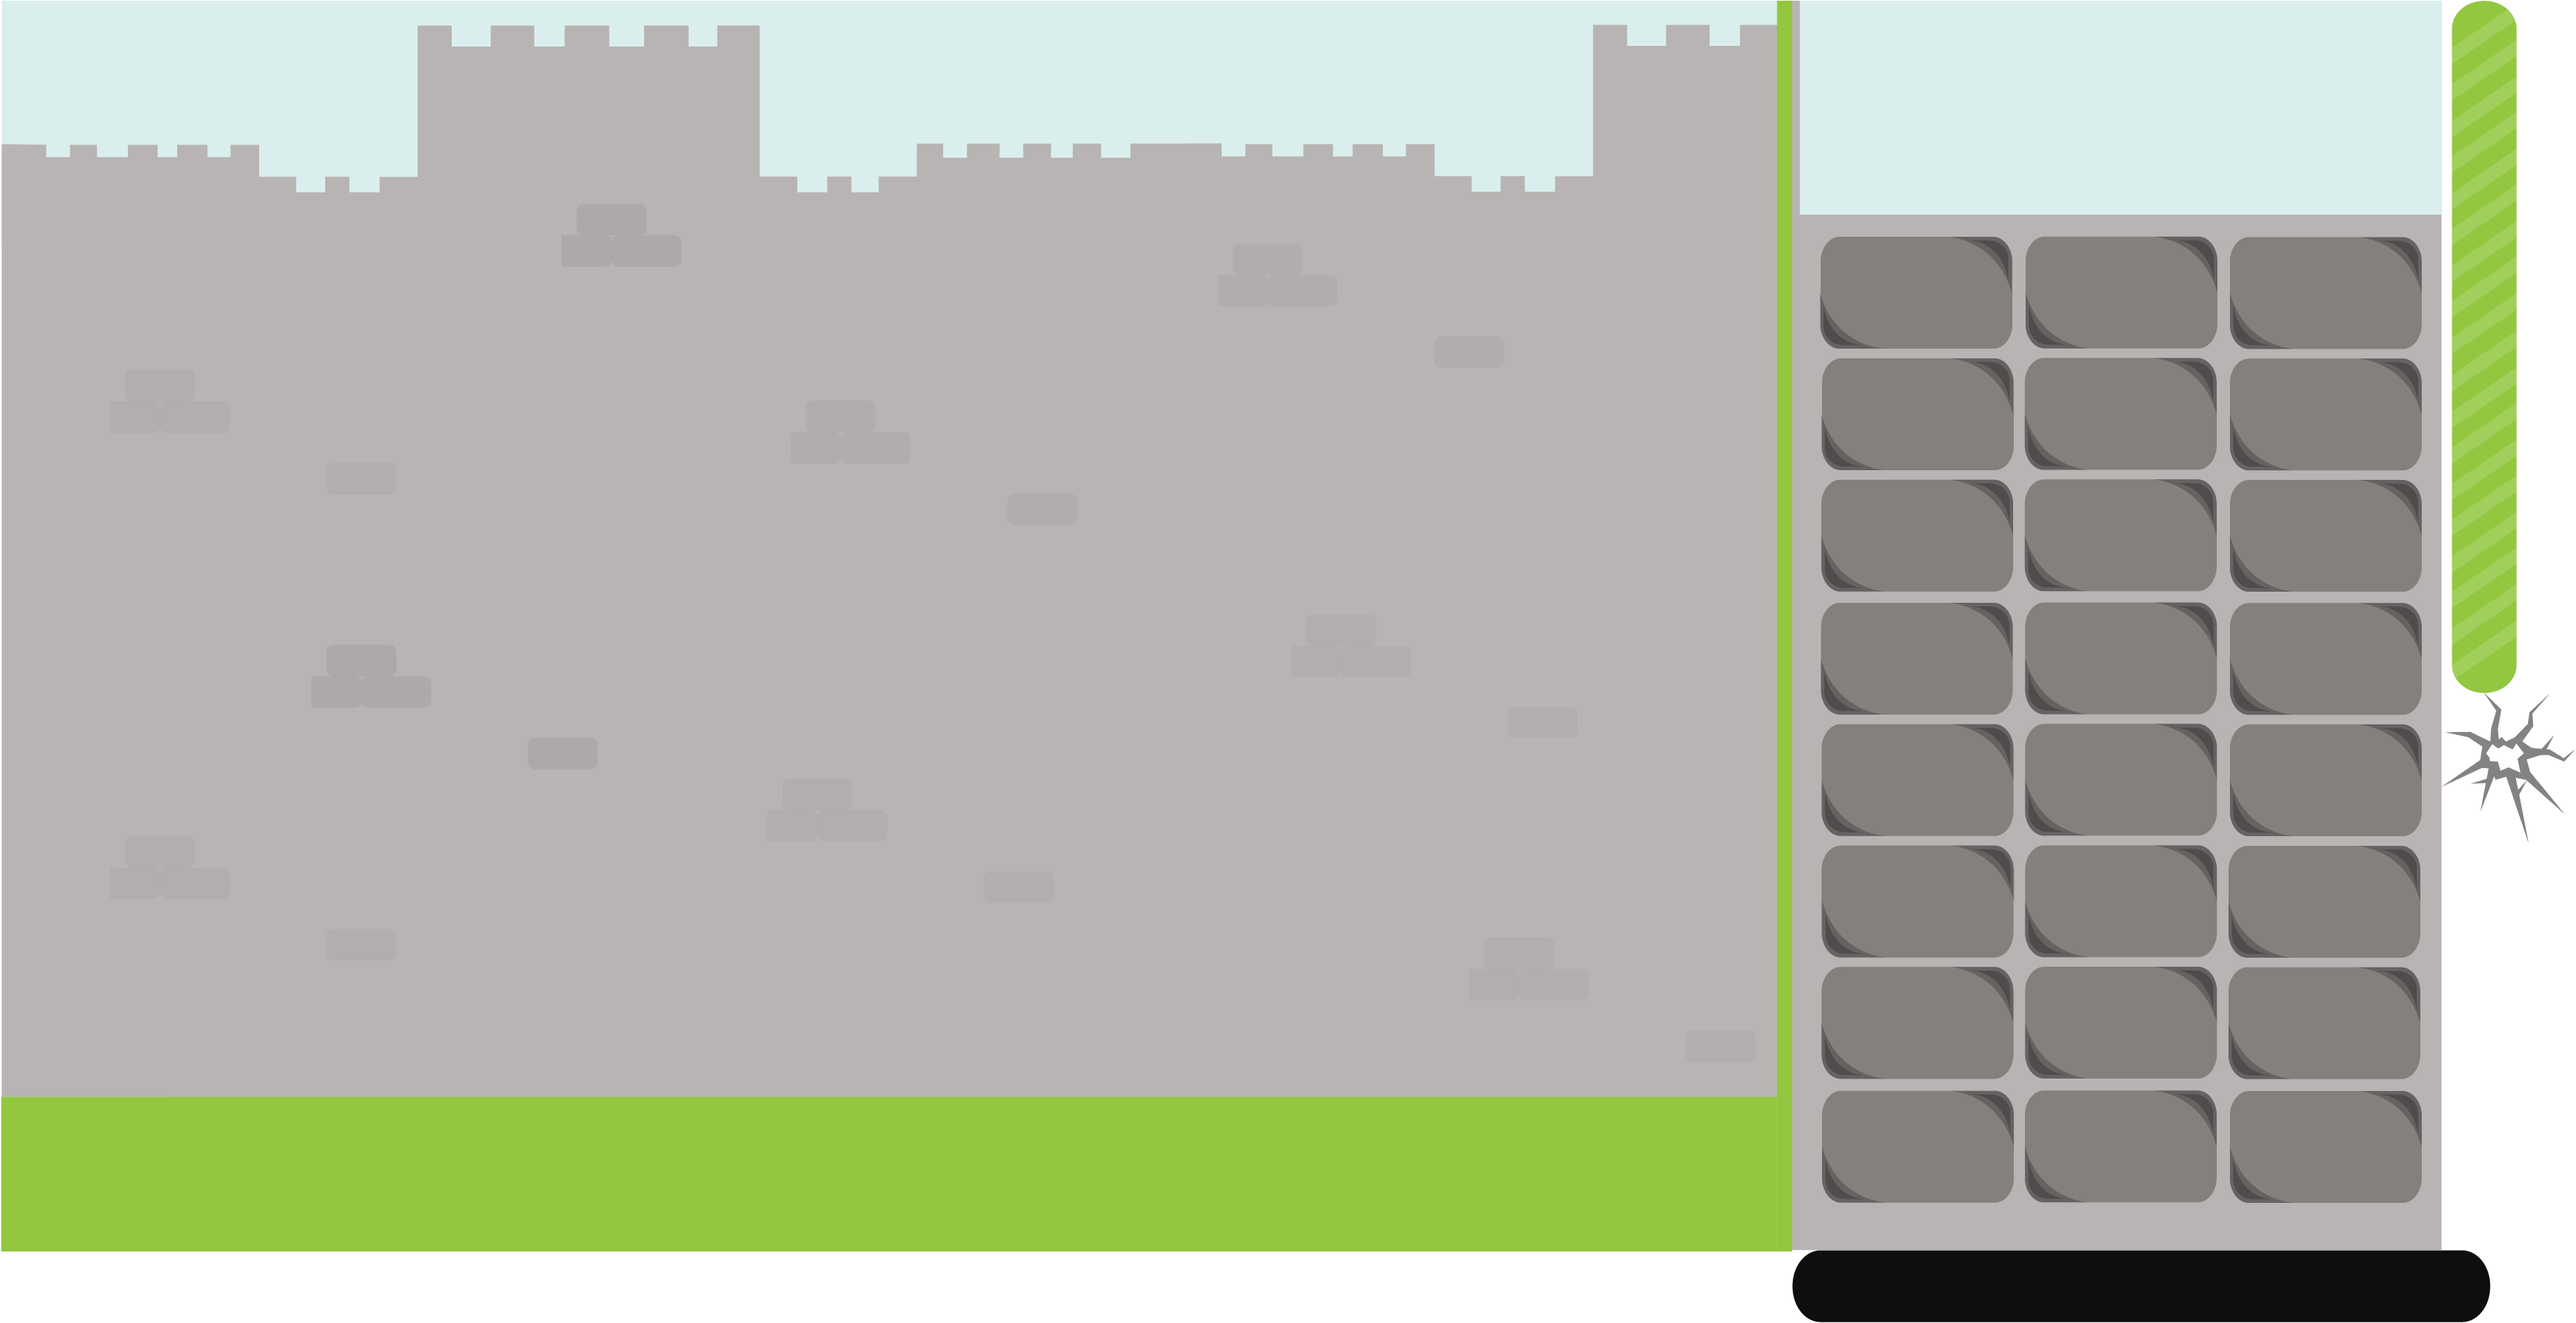
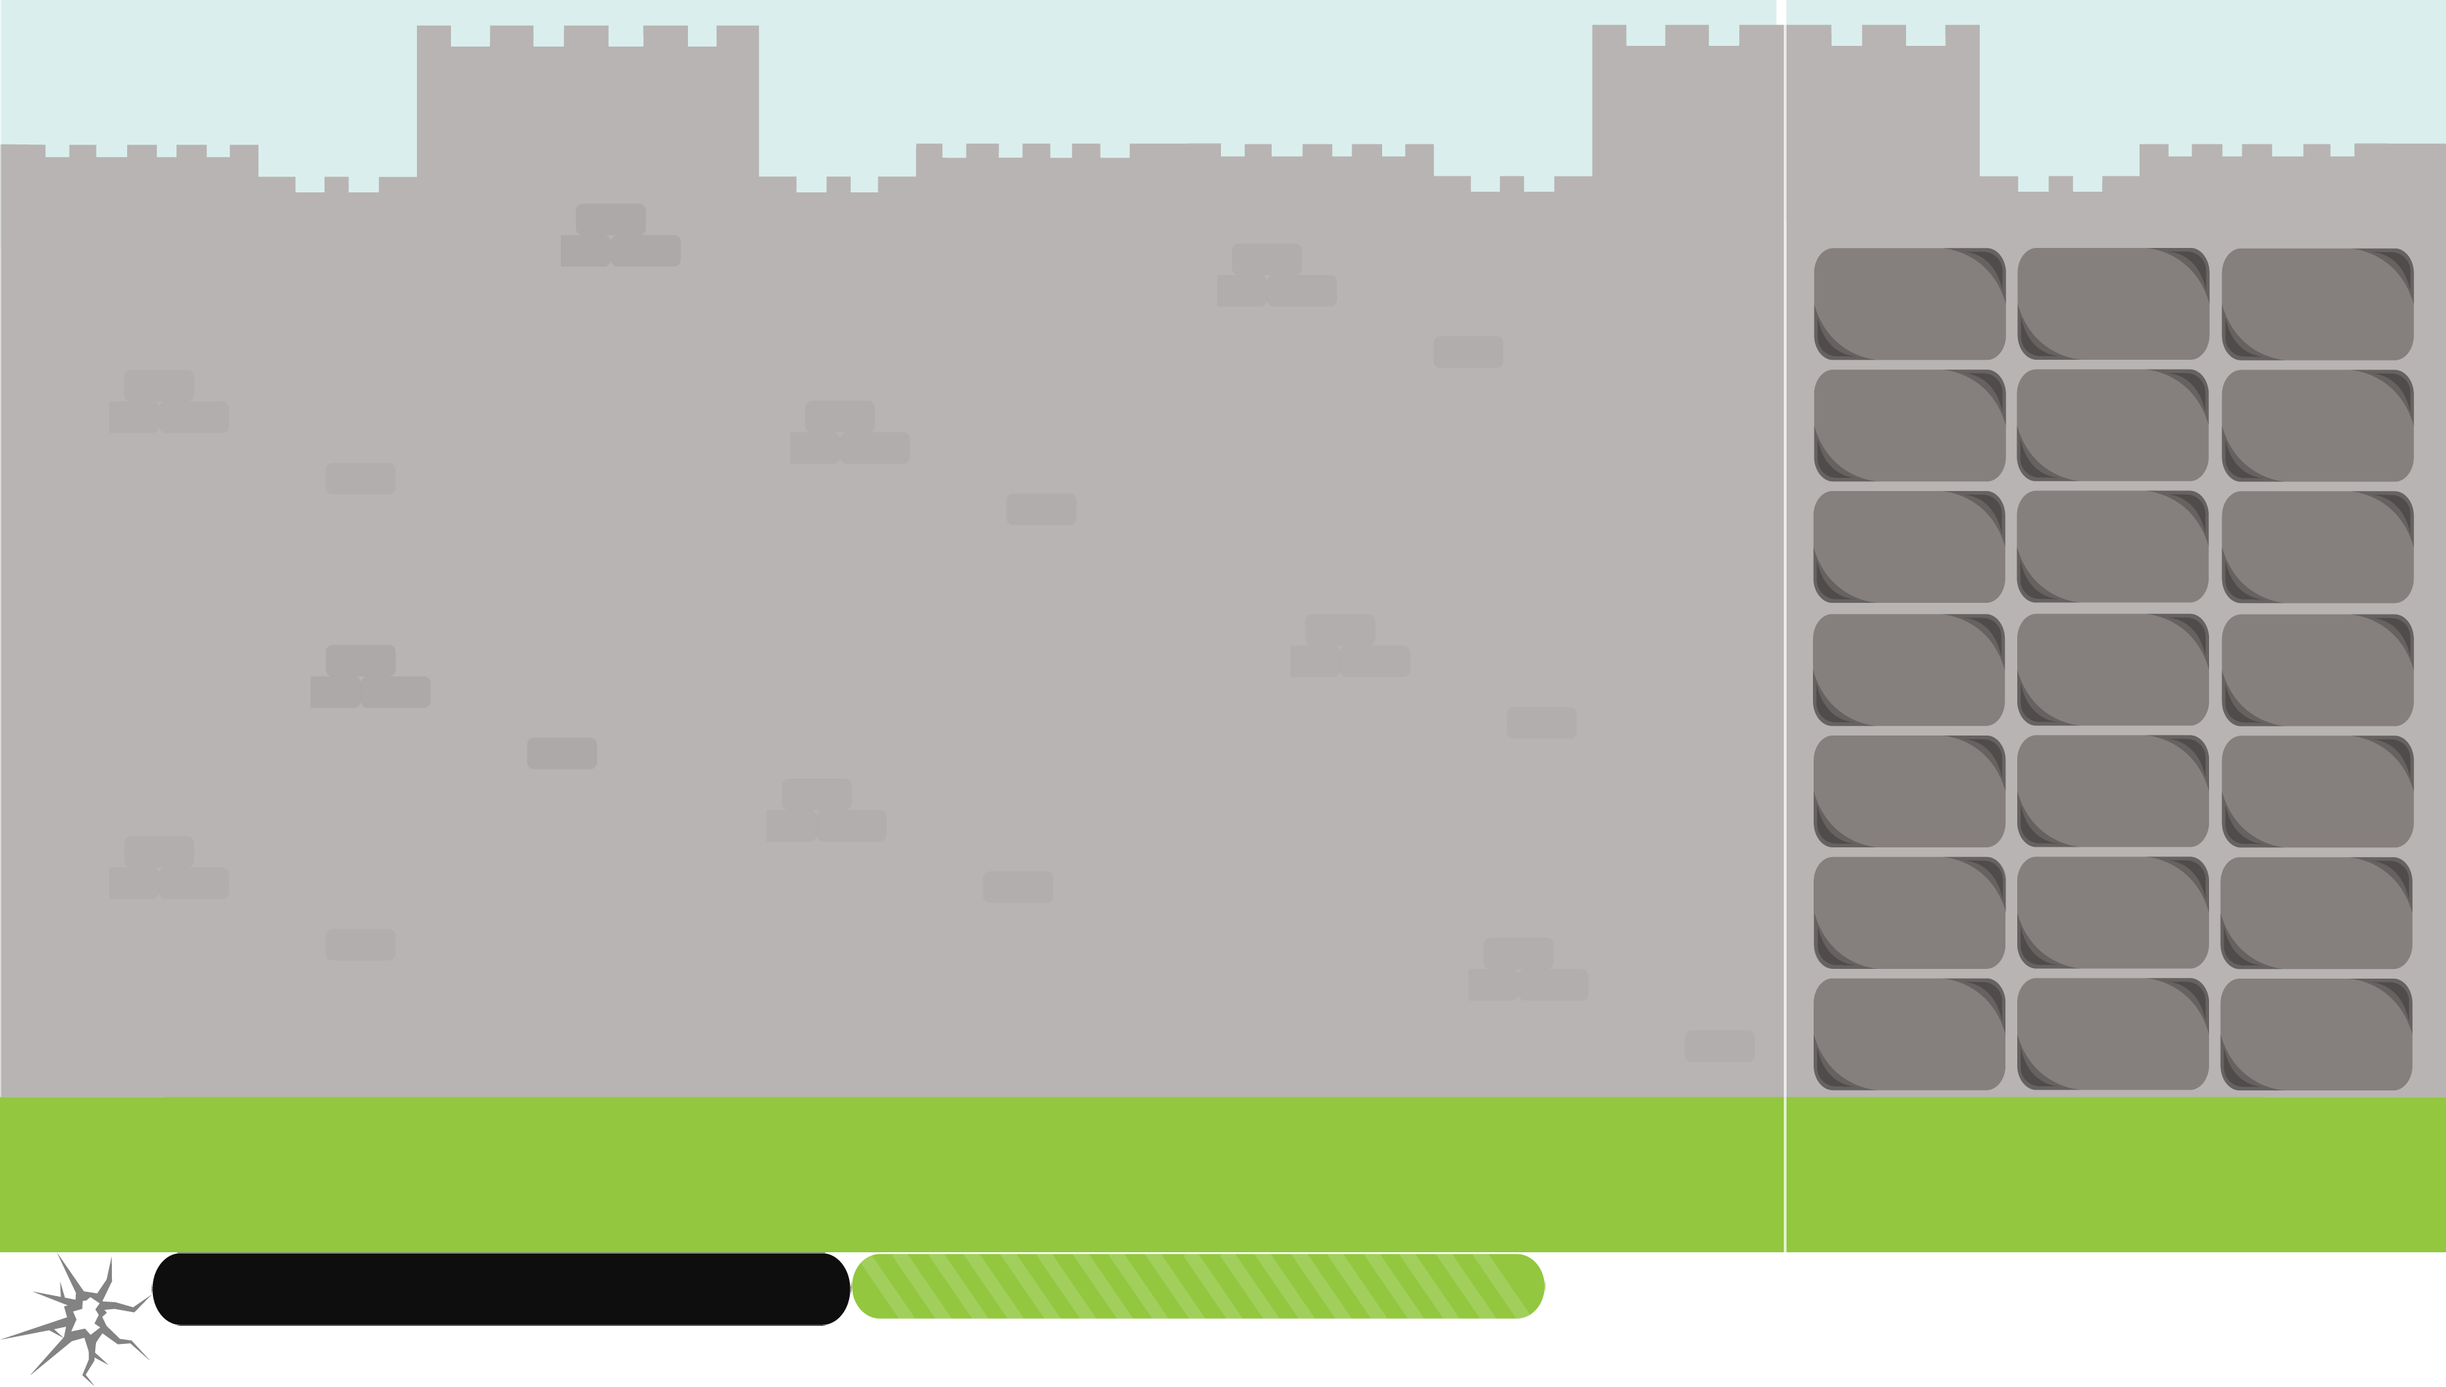
added alphabet grid and score

Changed region(s): [[0.0, 0.0, 1.0, 1.0], [0.0, 0.0929, 0.1562, 0.1549]]

diff --git a/safari/Classes/mini_games/PatchTheWallScene.cpp b/safari/Classes/mini_games/PatchTheWallScene.cpp
@@ -1,13 +1,17 @@
 #include "PatchTheWallScene.h"
 #include "editor-support/cocostudio/CocoStudio.h"
+#include "../puzzle/CharGenerator.h"
+#include "../puzzle/Alphabet.h"
+#include "../lang/LangUtil.h"
 #include "string.h"
 
 USING_NS_CC;
-const std::vector<std::string> Alphabets = {"A","B","C","D", "E","F","G","H","I","J","K","L","M","N","O","P","Q","R","S","T","U","V","W","X","Y","Z"};
+//const std::vector<std::string> Alphabets = {"A","B","C","D", "E","F","G","H","I","J","K","L","M","N","O","P","Q","R","S","T","U","V","W","X","Y","Z"};
 
 float PatchTheWall::x;
 float PatchTheWall::y;
 cocos2d::Node* PatchTheWall::no;
+
 
 Scene* PatchTheWall::createScene()
 {
@@ -19,7 +23,8 @@ Scene* PatchTheWall::createScene()
 
 	// add layer as a child to scene
 	scene->addChild(layer);
-
+	layer->_menuContext = MenuContext::create(layer);
+	scene->addChild(layer->_menuContext);
 	// return the scene
 	return scene;
 }
@@ -32,28 +37,43 @@ bool PatchTheWall::init()
 	}
 	Size visibleSize = Director::getInstance()->getVisibleSize();
 	Vec2 origin = Director::getInstance()->getVisibleOrigin();
+
 	auto temp = CSLoader::createNode("patchthewall.csb");
 	auto alpha1 = temp->getChildren();
 	this->addChild(temp);
+
+	slideBar = (cocos2d::ui::Slider *)(temp->getChildByName("Slider_3"));
+	slideBar->setPercent(1);
+	slideBar->setEnabled(false);
+
 	SpriteFrameCache *spriteCache = SpriteFrameCache::getInstance();
 	spriteCache->addSpriteFramesWithFile("fort_plist.plist");
 
+	auto alphagrids = Sprite::createWithSpriteFrameName("alphagrid.png");
+	alphagrids->setPositionX(visibleSize.width - alphagrids->getContentSize().width/2);
+	alphagrids->setPositionY(visibleSize.height/2);
+	this->addChild(alphagrids, 6);
+	 
+	matrix = CharGenerator::getInstance()->generateCharMatrix(3, 7);
+
 	// position the sprite on the center of the screen
 	this->schedule(schedule_selector(PatchTheWall::Blast), 5.0f);
-	for (int i = 0; i < 10; i++) {
-		int hegbox = (i * 175) + 90;
+	for (int i = 0; i < 7; i++) {
+		int hegbox = (i * 175) + 300;
 		for (int j = 0; j < 3; j++)
 		{
 			int randgen = cocos2d::RandomHelper::random_int(0, 25);
-			const char* level = Alphabets.at(randgen).c_str();
-			int weibox = (j * 276) + 1820;
-			auto label = Label::createWithTTF(level, "letters.ttf", 200);
+			//const char* level = Alphabets.at(randgen).c_str();
+			int weibox = visibleSize.width -200 - (j * 276);
+			auto mystr = LangUtil::convertUTF16CharToString(matrix[j][i]);
+			auto label  = Alphabet::createWithSize(matrix[j][i], 200);
+			//auto label = Label::createWithTTF(matrix[j][i], "letters.ttf", 200);
 			label->setPositionX(weibox);
 			label->setPositionY(hegbox);
 			label->setColor(ccc3(132, 131, 131));
 			label->setAnchorPoint(Vec2(0.5, 0.5));
-			label->setName(level);
-			this->addChild(label, 5);
+			label->setName(mystr);
+			this->addChild(label, 7);
 			auto listener = EventListenerTouchOneByOne::create();
 			listener->setSwallowTouches(true);
 			listener->onTouchBegan = CC_CALLBACK_2(PatchTheWall::onTouchBegan, this);
@@ -103,6 +123,7 @@ void PatchTheWall::onTouchMoved(cocos2d::Touch *touch, cocos2d::Event * event)
 	for (int i = 0; i < blastAlphaReff.size(); i++)
 	{
 		auto my_point = blastAlphaReff.at(i)->getPosition();
+		_menuContext->pickAlphabet(blastAlphaReff.at(i)->getName().at(0), PatchTheWall::no->getName().at(0), true);
 		if ((PatchTheWall::no->getBoundingBox()).containsPoint(my_point) && ((PatchTheWall::no->getName()).compare(blastAlphaReff.at(i)->getName()) == 0))
 		{
 			CCLOG("overlap");
@@ -116,6 +137,8 @@ void PatchTheWall::onTouchMoved(cocos2d::Touch *touch, cocos2d::Event * event)
 			crackReff.erase(i);
 			blastAlphaReff.erase(i);
 			PatchTheWall::no->setOpacity(0);
+			score = score + 5;
+			slideBar->setPercent(score);
 			flag = true;
 		}
 
@@ -125,6 +148,7 @@ void PatchTheWall::onTouchEnded(cocos2d::Touch *touch, cocos2d::Event * event)
 {
 	if (flag) {
 		flag1 = true;
+		flag = false;
 		PatchTheWall::no->setPositionX(PatchTheWall::x);
 		PatchTheWall::no->setPositionY(PatchTheWall::y);
 		PatchTheWall::no->setOpacity(255);
@@ -132,7 +156,8 @@ void PatchTheWall::onTouchEnded(cocos2d::Touch *touch, cocos2d::Event * event)
 	else
 	{
 		flag1 = true;
-		PatchTheWall::no->runAction(MoveTo::create(1, Vec2(PatchTheWall::x, PatchTheWall::y)));
+		PatchTheWall::no->runAction(MoveTo::create(3, Vec2(PatchTheWall::x, PatchTheWall::y)));
+
 	}
 
 	//isTouching = false;
@@ -148,20 +173,24 @@ void PatchTheWall::fort(float dt) {
 	Vec2 origin = Director::getInstance()->getVisibleOrigin();
 
 	int randgen = cocos2d::RandomHelper::random_int(0, 25);
-	const char* level = Alphabets.at(randgen).c_str();
+	//const char* level = Alphabets.at(randgen).c_str();
     this->removeChild(blastImage);
 	auto block = Sprite::createWithSpriteFrameName("crack.png");
 	block->setPositionX(randx);
 	block->setPositionY(randy);
 	this->addChild(block,3);
-	block->setName(level);
+	//block->setName(level);
 	crackReff.pushBack(block);
 	
-	auto label = Label::createWithTTF(level, "letters.ttf", 200);
+	//auto label = Label::createWithTTF(level, "letters.ttf", 200);
+	int i = cocos2d::RandomHelper::random_int(0, 6);
+	int j = cocos2d::RandomHelper::random_int(0, 2);
+	auto mystr = LangUtil::convertUTF16CharToString(matrix[j][i]);
+	auto label = Alphabet::createWithSize(matrix[j][i], 200);
 	label->setPositionX(randx);
 	label->setPositionY(randy);
 	label->setColor(ccc3(218, 239, 237));
-	label->setName(level);
+	label->setName(mystr);
 	this->addChild(label, 4);
 	blastAlphaReff.pushBack(label);
 }

diff --git a/safari/Classes/mini_games/PatchTheWallScene.h b/safari/Classes/mini_games/PatchTheWallScene.h
@@ -3,18 +3,23 @@
 
 #include "cocos2d.h"
 #include <vector>
+#include "../menu/MenuContext.h"
 
 class PatchTheWall : public cocos2d::Layer
 {
 public:
 	static float x, y;
+	MenuContext *_menuContext;
 	bool flag;
 	bool flag1 = true;
+	int score = 0;
 	static cocos2d::Node *no;
+	cocos2d::ui::Slider * slideBar;
     static cocos2d::Scene* createScene();
 	cocos2d::Node* coolSprite;
 	virtual void Blast(float dt);
     virtual bool init();
+	std::vector<std::vector<wchar_t>> matrix;
 	float randx, randy;
     // a selector callback
     void menuCloseCallback(cocos2d::Ref* pSender);
